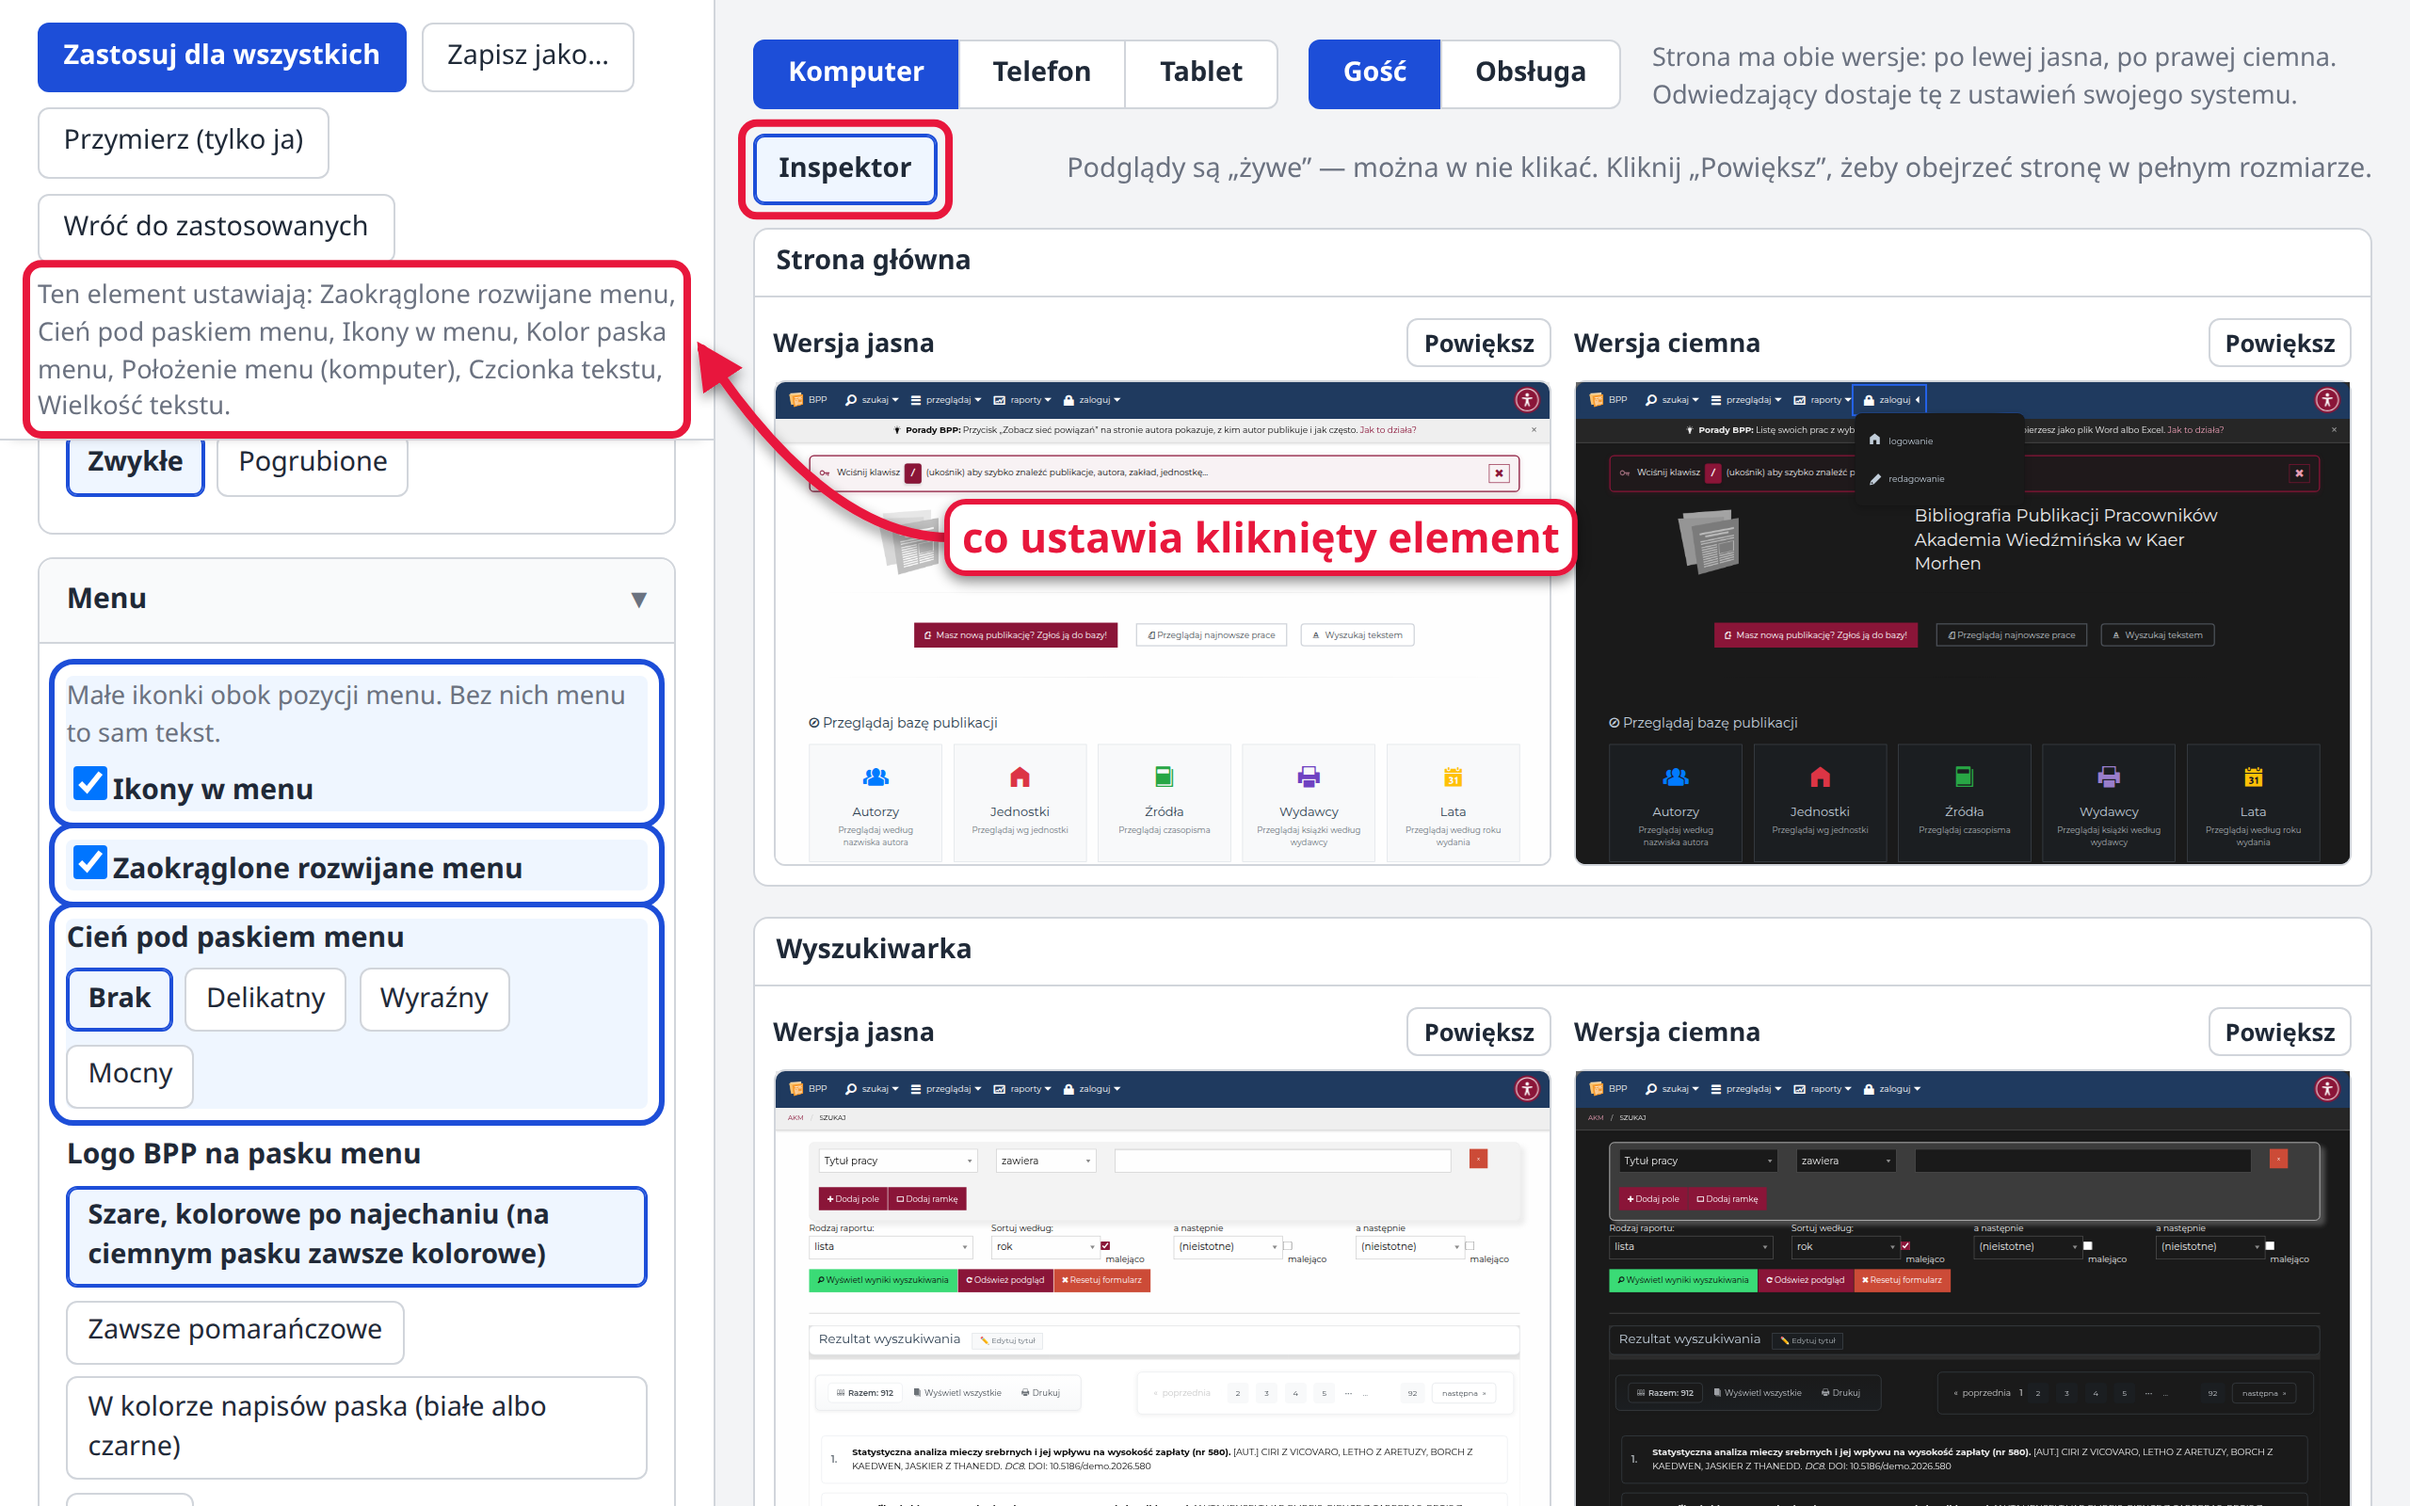
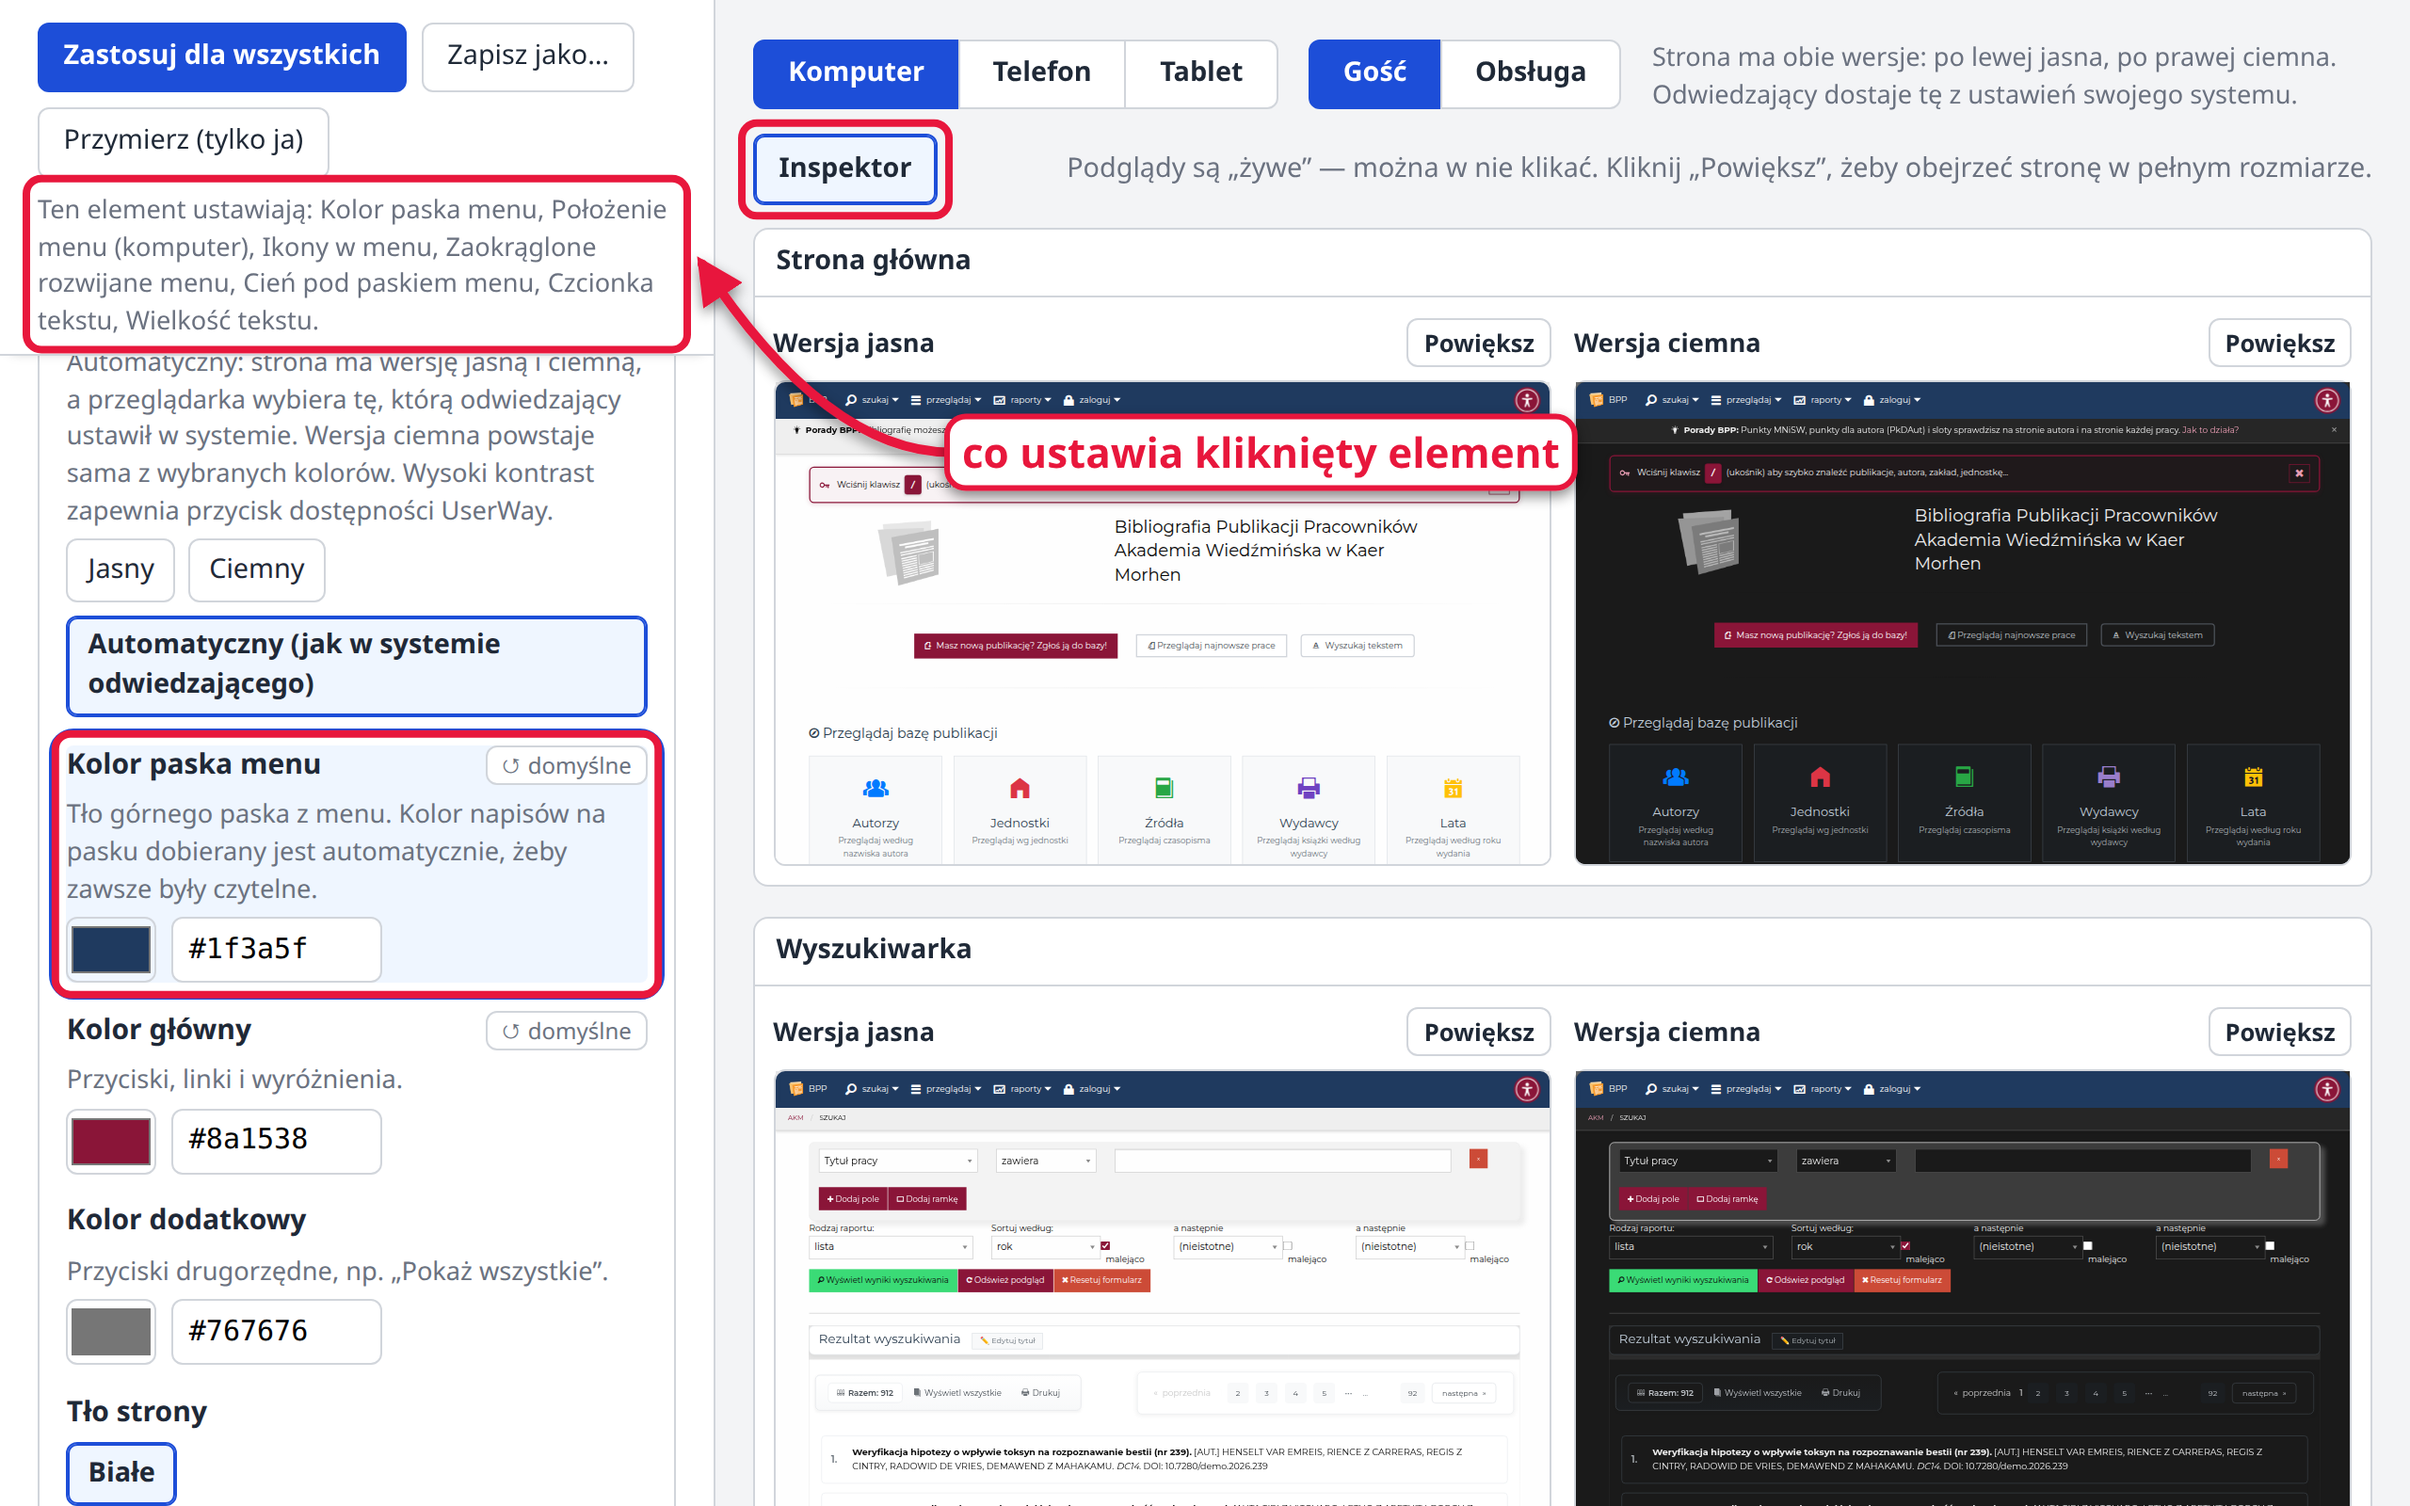
docs-demo-panel-uczelnia: jednostki z bazy zamiast nazw; zrzut inspektora bez menu
Skrypt szukał jednostek „Klinika Mutacji” itd. po nazwie, a po
rozszerzeniu puli nazw motywu „wiedzmin” (4be76d7aa) ten sam --seed
losuje inne jednostki — Jednostka.DoesNotExist. Teraz główne miejsce
pracy to dotychczasowa jednostka autorki, a dwa pozostałe to pierwsze
alfabetycznie jednostki bez podjednostek.

09-inspektor.png: klik inspektora to zdarzenie syntetyczne na pasku,
a kursor odsuwamy od podglądów — w podglądzie nie zostaje rozwinięte
menu „zaloguj”.

diff --git a/bin/docs-demo-panel-uczelnia.py b/bin/docs-demo-panel-uczelnia.py
@@ -18,6 +18,7 @@ Run on the Witcher demo DB (docs/deweloper/zrzuty-ekranu.md):
 import datetime
 
 from django.contrib.auth.models import Group
+from django.db.models import F
 from password_policies.models import PasswordHistory
 
 from bpp.models import Autor, Autor_Jednostka, BppUser, Jednostka, Uczelnia
@@ -47,20 +48,36 @@ konto("regis", "Emiel Regis", "Rohellec Terzieff-Godefroy", superuser=True)
 
 # --- several workplaces of one author -------------------------------------
 autor = Autor.objects.get(imiona="Margarita", nazwisko="Merigold")
+# Jednostki bierzemy z bazy, a nie po nazwie: nazwy losuje generator danych
+# demo z puli motywu, a po rozszerzeniu puli (commit 4be76d7aa) ten sam
+# --seed daje inne jednostki — np. „Klinika Mutacji” już nie powstaje.
+# Główne miejsce pracy = dotychczasowa jednostka autorki; dwie pozostałe =
+# pierwsze alfabetycznie jednostki bez podjednostek (bez wydziałów).
+glowna = autor.aktualna_jednostka
+pozostale = list(
+    Jednostka.objects.filter(rght=F("lft") + 1)
+    .exclude(pk=glowna.pk)
+    .order_by("nazwa")[:2]
+)
+if len(pozostale) < 2:
+    raise SystemExit(
+        "Za mało jednostek w bazie demo — wygeneruj dane wg "
+        "docs/deweloper/zrzuty-ekranu.md."
+    )
 Autor_Jednostka.objects.filter(autor=autor).delete()
-for nazwa, od, do, podstawowe in [
+for jednostka, od, do, podstawowe in [
     (
-        "Zakład Szlaku Wiedźmińskiego",
+        pozostale[0],
         datetime.date(2014, 10, 1),
         datetime.date(2019, 9, 30),
         None,
     ),
-    ("Klinika Mutacji", datetime.date(2019, 10, 1), None, True),
-    ("Katedra i Zakład Mutacji", datetime.date(2021, 3, 1), None, None),
+    (glowna, datetime.date(2019, 10, 1), None, True),
+    (pozostale[1], datetime.date(2021, 3, 1), None, None),
 ]:
     Autor_Jednostka.objects.create(
         autor=autor,
-        jednostka=Jednostka.objects.get(nazwa=nazwa),
+        jednostka=jednostka,
         rozpoczal_prace=od,
         zakonczyl_prace=do,
         podstawowe_miejsce_pracy=podstawowe,

diff --git a/bin/docs-screenshots.py b/bin/docs-screenshots.py
@@ -9333,8 +9333,11 @@ def konfigurator_wygladu(page: Page, base: str, out: Path) -> None:
     adm.click("#zwin-wszystkie")
     adm.click("#inspektor")
     ramka = adm.frame_locator("#siatka iframe").first
-    ramka.locator(".top-bar").first.click(position={"x": 600, "y": 10})
-    adm.wait_for_timeout(1200)
+    # a synthetic click on the bar itself: a real mouse click would hover a
+    # menu item and leave its dropdown open on the screenshot
+    ramka.locator(".top-bar").first.dispatch_event("click")
+    adm.mouse.move(150, 780)  # away from the previews: no hovered dropdowns
+    adm.wait_for_timeout(1500)  # dropdown close animation
     mark(
         adm,
         [

diff --git a/docs/administrator/konfigurator-wygladu.md b/docs/administrator/konfigurator-wygladu.md
@@ -90,7 +90,7 @@ ustawiają: …”). Gdy elementu nie da się zmienić konfiguratorem, pojawi si
 „Tego elementu konfigurator nie zmienia.”. Ponowne kliknięcie
 **Inspektor** wyłącza ten tryb.
 
-![Inspektor: po kliknięciu paska menu na podglądzie podświetlone są opcje z sekcji „Menu”](../images/administrator/konfigurator-wygladu/09-inspektor.png)
+![Inspektor: po kliknięciu paska menu na podglądzie podświetlona jest opcja „Kolor paska menu”, a pasek stanu wymienia wszystkie opcje paska](../images/administrator/konfigurator-wygladu/09-inspektor.png)
 
 ### Powrót do wartości domyślnej
 
